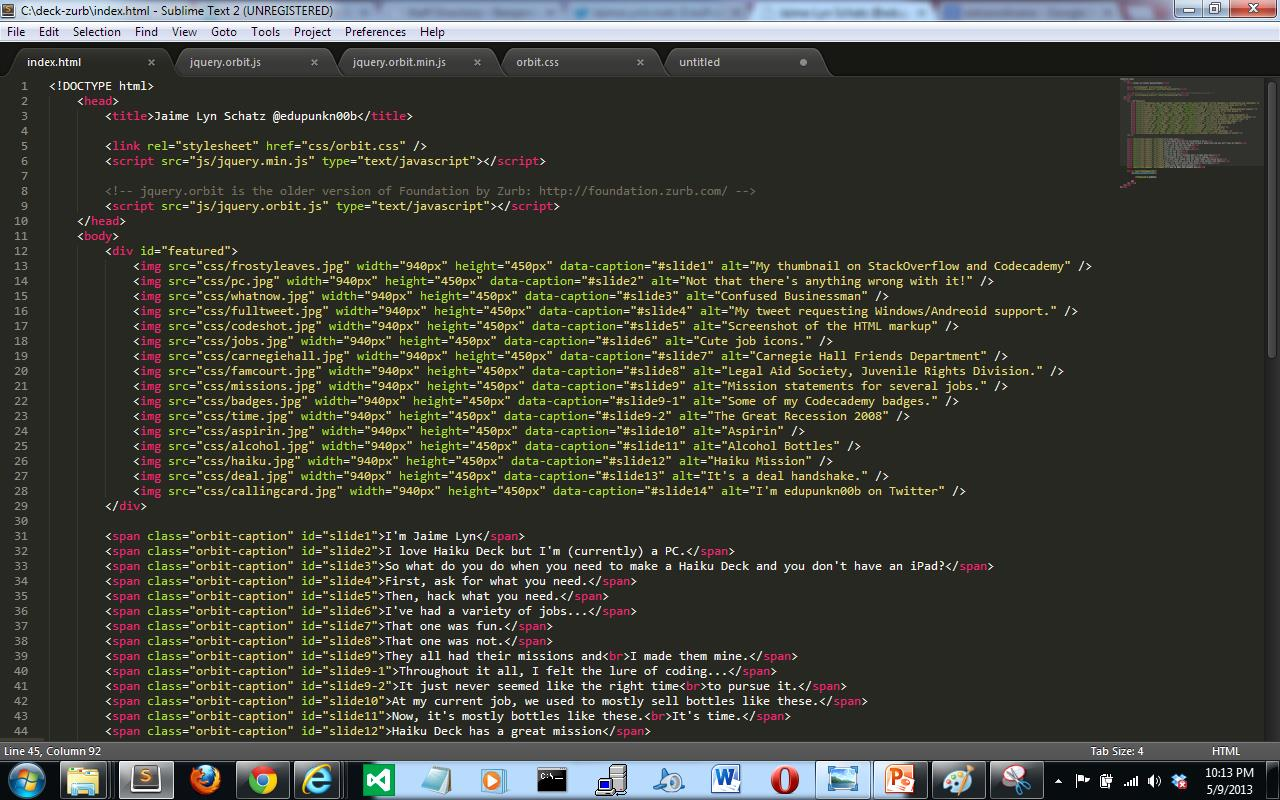
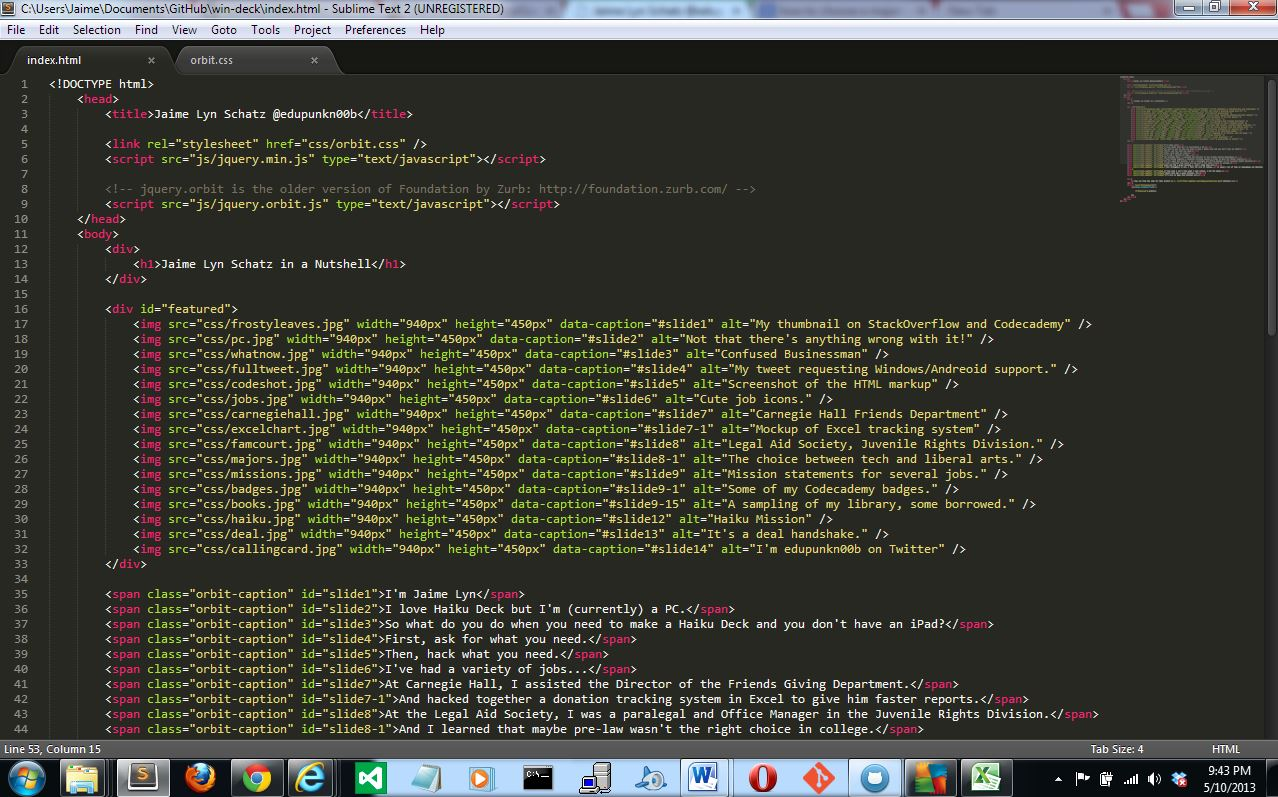
Changed some slides, text
Edited some of the slides and changed some of the pictures.  No major
structural changes were made.

diff --git a/index.html b/index.html
@@ -9,6 +9,10 @@
 		<script src="js/jquery.orbit.js" type="text/javascript"></script>
 	</head>
 	<body>
+		<div>
+			<h1>Jaime Lyn Schatz in a Nutshell</h1>
+		</div>
+
 		<div id="featured">
 			<img src="css/frostyleaves.jpg" width="940px" height="450px" data-caption="#slide1" alt="My thumbnail on StackOverflow and Codecademy" />
 			<img src="css/pc.jpg" width="940px" height="450px" data-caption="#slide2" alt="Not that there's anything wrong with it!" />
@@ -17,12 +21,12 @@
 			<img src="css/codeshot.jpg" width="940px" height="450px" data-caption="#slide5" alt="Screenshot of the HTML markup" />
 			<img src="css/jobs.jpg" width="940px" height="450px" data-caption="#slide6" alt="Cute job icons." />
 			<img src="css/carnegiehall.jpg" width="940px" height="450px" data-caption="#slide7" alt="Carnegie Hall Friends Department" />
+			<img src="css/excelchart.jpg" width="940px" height="450px" data-caption="#slide7-1" alt="Mockup of Excel tracking system" />
 			<img src="css/famcourt.jpg" width="940px" height="450px" data-caption="#slide8" alt="Legal Aid Society, Juvenile Rights Division." />
+			<img src="css/majors.jpg" width="940px" height="450px" data-caption="#slide8-1" alt="The choice between tech and liberal arts." />
 			<img src="css/missions.jpg" width="940px" height="450px" data-caption="#slide9" alt="Mission statements for several jobs." />
 			<img src="css/badges.jpg" width="940px" height="450px" data-caption="#slide9-1" alt="Some of my Codecademy badges." />
-			<img src="css/time.jpg" width="940px" height="450px" data-caption="#slide9-2" alt="The Great Recession 2008" />
-			<img src="css/aspirin.jpg" width="940px" height="450px" data-caption="#slide10" alt="Aspirin" />
-			<img src="css/alcohol.jpg" width="940px" height="450px" data-caption="#slide11" alt="Alcohol Bottles" />
+			<img src="css/books.jpg" width="940px" height="450px" data-caption="#slide9-15" alt="A sampling of my library, some borrowed." />
 			<img src="css/haiku.jpg" width="940px" height="450px" data-caption="#slide12" alt="Haiku Mission" />
 			<img src="css/deal.jpg" width="940px" height="450px" data-caption="#slide13" alt="It's a deal handshake." />
 			<img src="css/callingcard.jpg" width="940px" height="450px" data-caption="#slide14" alt="I'm edupunkn00b on Twitter" />
@@ -34,16 +38,19 @@
 		<span class="orbit-caption" id="slide4">First, ask for what you need.</span>
 		<span class="orbit-caption" id="slide5">Then, hack what you need.</span>
 		<span class="orbit-caption" id="slide6">I've had a variety of jobs...</span>
-		<span class="orbit-caption" id="slide7">That one was fun.</span>
-		<span class="orbit-caption" id="slide8">That one was not.</span>
-		<span class="orbit-caption" id="slide9">They all had their missions and<br>I made them mine.</span>
-		<span class="orbit-caption" id="slide9-1">Throughout it all, I felt the lure of coding...</span>
-		<span class="orbit-caption" id="slide9-2">It just never seemed like the right time<br>to pursue it.</span>
-		<span class="orbit-caption" id="slide10">At my current job, we used to sell mostly bottles like these.</span>
-		<span class="orbit-caption" id="slide11">Now we sell a lot more bottles like these.<br>It's time.</span>
-		<span class="orbit-caption" id="slide12">Haiku Deck has a great mission</span>
+		<span class="orbit-caption" id="slide7">At Carnegie Hall, I assisted the Director of the Friends Giving Department.</span>
+		<span class="orbit-caption" id="slide7-1">And hacked together a donation tracking system in Excel to give him faster reports.</span>
+		<span class="orbit-caption" id="slide8">At the Legal Aid Society, I was a paralegal and Office Manager in the Juvenile Rights Division.</span>
+		<span class="orbit-caption" id="slide8-1">And I learned that maybe pre-law wasn't the right choice in college.</span>
+		<span class="orbit-caption" id="slide9">Each job had a great mission.<br>And I made them mine.</span>
+		<span class="orbit-caption" id="slide9-1">But throughout it all, I felt the lure of coding...<br>I spend a lot of time on Codecademy and Udacity</span>
+		<span class="orbit-caption" id="slide9-15">And when I can't find what I need online, I hit the books.</span>
+		<span class="orbit-caption" id="slide12">Haiku Deck has a great mission, too.</span>
 		<span class="orbit-caption" id="slide13">I'd love to make that mission ours.</span>
 
+		<div>
+			<h2>You can find the code for this project on <a href="https://github.com/JaimeLynSchatz/win-deck">Github</a></h2>
+		</div>
 		<script type="text/javascript">
 			$(window).load(function() {
 				

diff --git a/css/orbit.css b/css/orbit.css
@@ -8,6 +8,11 @@
  
 /* PUT IN YOUR SLIDER ID AND SIZE TO MAKE LOAD BEAUTIFULLY
    ================================================== */
+
+body {
+    background-color: #FFF;
+}
+
 #featured { 
 	width: 940px;
 	height: 450px;
@@ -16,10 +21,6 @@
 #featured>img,  
 #featured>div,
 #featured>a { display: none; }
-
-body {
-    background-color: #FFF;
-}
 
 .hidden {
     opacity: 0.0%;
